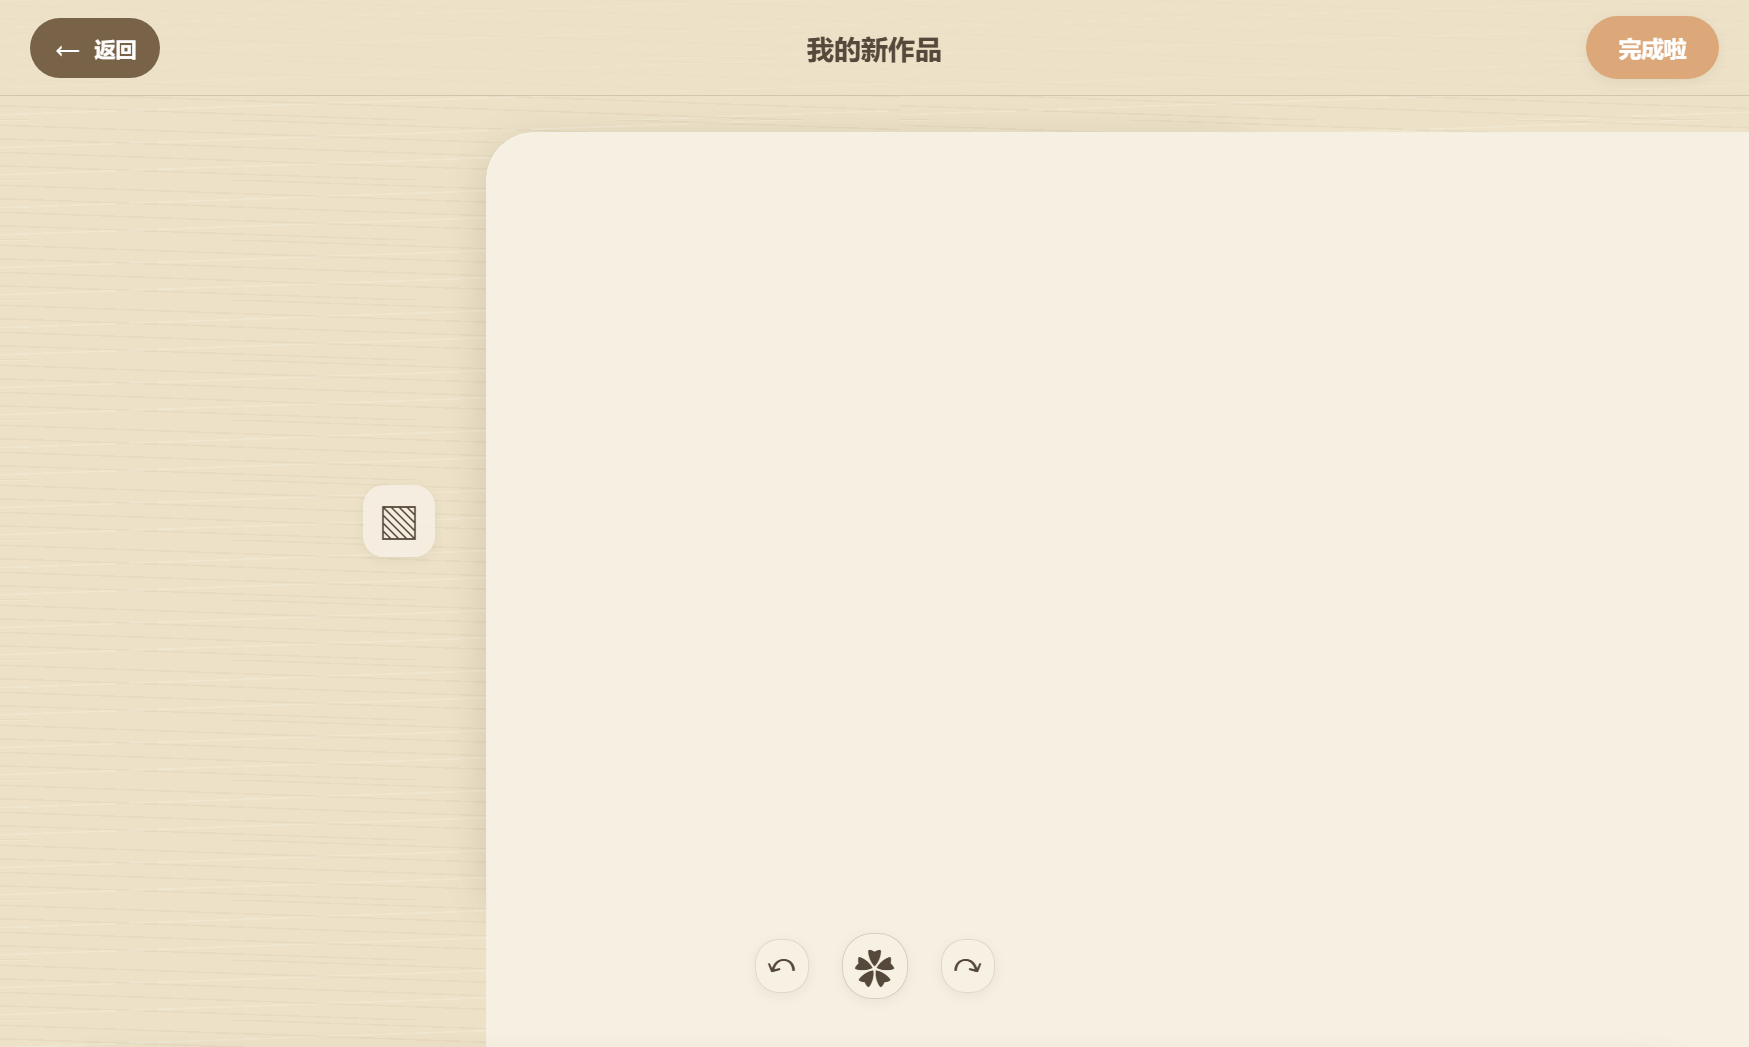
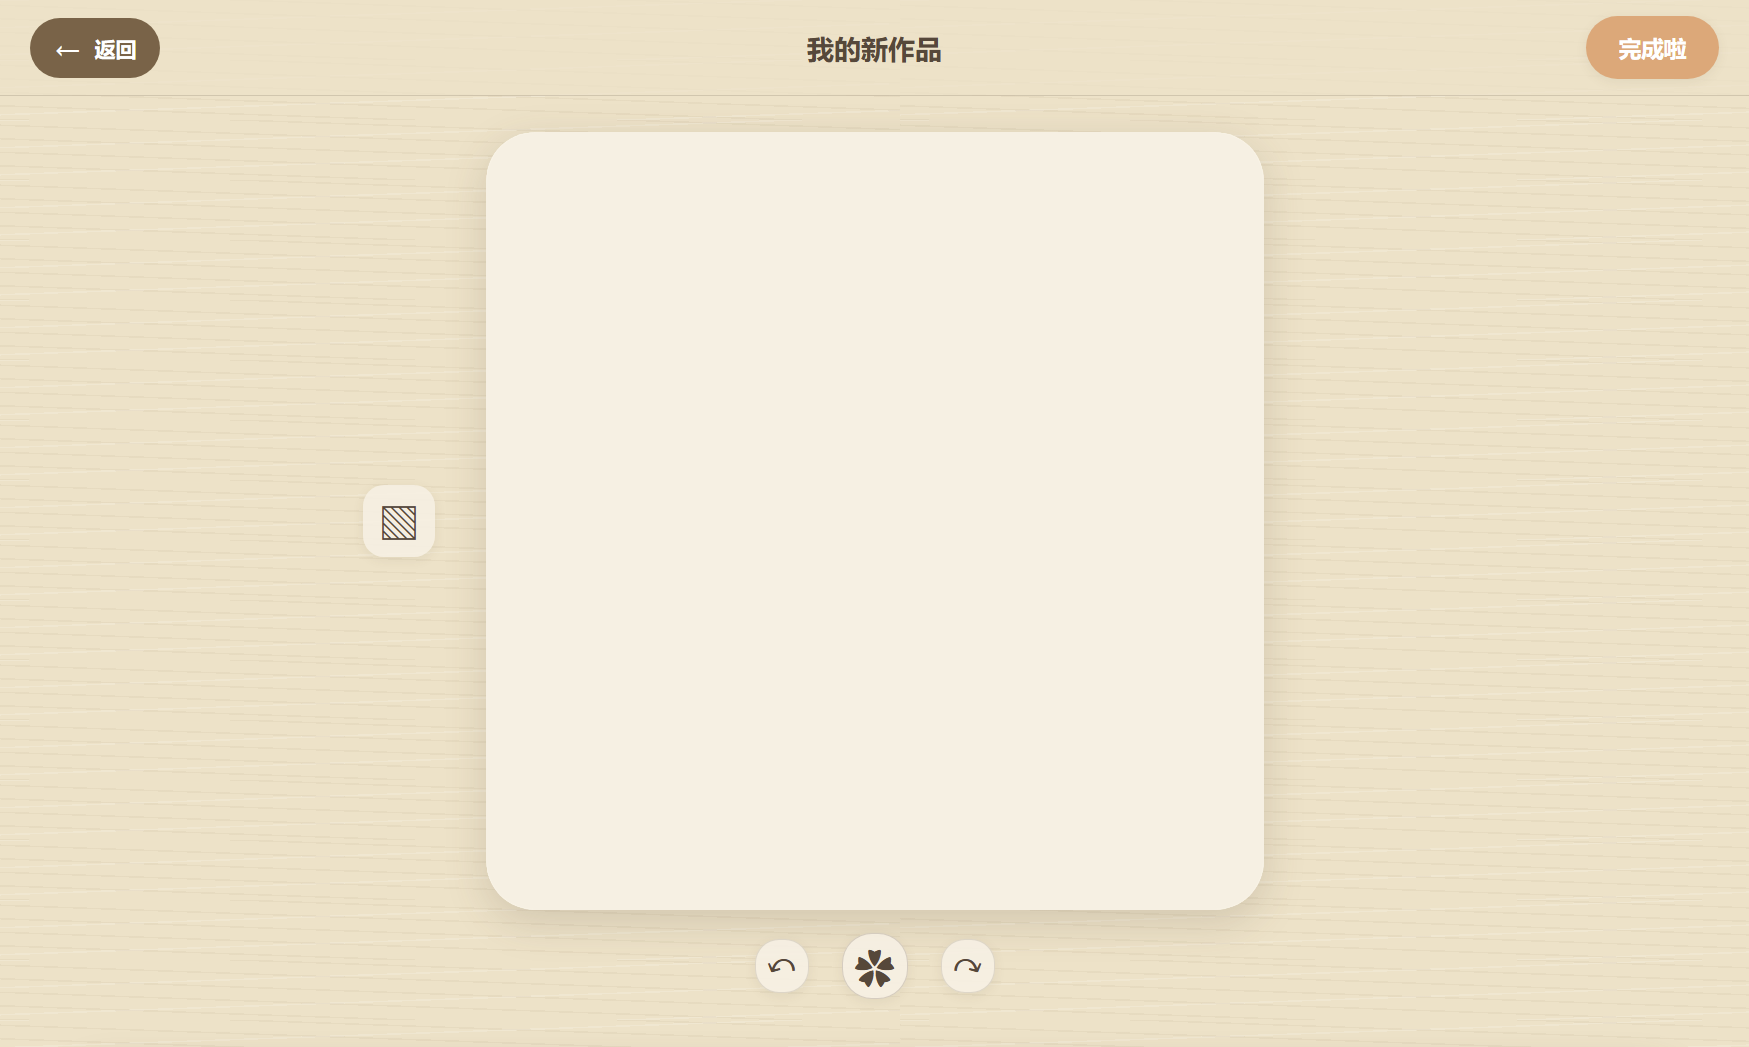
test(editor): record passing OQT geometry evidence

diff --git a/felt-craft-lab-e2e-evidence/v46-oqt-selection/OQT_SELECTION_FOCUSED_ACCEPTANCE.md b/felt-craft-lab-e2e-evidence/v46-oqt-selection/OQT_SELECTION_FOCUSED_ACCEPTANCE.md
@@ -2,29 +2,28 @@
 
 ## Scope
 
-This is a focused production Electron acceptance run for the renderer-only
-selection projection and Object Quick Tools. It is not FULL E2E and does not
-change the UI branch, Shared Contracts, SceneDocument, persistence, resolver,
-or Electron security boundary.
+Focused acceptance of the renderer-only selection projection and Object Quick
+Tools in the built production Electron renderer. This is not FULL E2E. The
+run does not change Shared Contracts, SceneDocument, persistence, resolver,
+catalog/snapshot rules, or Electron security boundaries.
 
 ## Result
 
-`OQT_SELECTION_FOCUSED_WITH_MINOR_ISSUES`
+`OQT_SELECTION_FOCUSED_PASSED`
 
-The core production UI path passed: library → themed new Scene → real mouse
-sticker additions → double-click selection → quick-tool layer actions → remove
-toast → toast undo. Unit coverage for geometry projection and listener cleanup
-also passed. The only minor/test issue is the existing production display
-surface mismatch documented in `oqt-geometry.json`; it prevented a reliable
-focused GUI assertion that OQT follows a real drag, so that assertion remains
-NOT_TESTED rather than being called PASS.
+The real production UI path passed: library → themed new Scene → real mouse
+sticker additions → single-click selection → double-click OQT → layer actions
+→ real drag with OQT open → real corner scale with OQT open → real rotation
+with OQT open → remove toast → toast undo. The final run used only production
+UI mouse input for these actions; no Session/Adapter delete or Fabric-object
+mutation was invoked by the harness.
 
 ## Requested fields
 
-- Verdict: `OQT_SELECTION_FOCUSED_WITH_MINOR_ISSUES`
+- Verdict: `OQT_SELECTION_FOCUSED_PASSED`
 - Branch: `feature/material-library/oqt-selection-projection`
-- Tested source: `f352246ca79ca0f604ba395e0c288b0ea327b2c7` (the committed implementation under test)
-- Production mode: built Electron renderer, no test-only Fabric smoke page
+- Tested source: `27b8f9c99b9642b88b74ae095db54e2539cbafda`
+- Production mode: built Electron renderer; no test-only Fabric smoke page
 - Single click selects a sticker and does not auto-open OQT: PASS
 - Double click opens OQT: PASS
 - OQT labels: `往前`, `往后`, `拿掉`
@@ -33,24 +32,34 @@ NOT_TESTED rather than being called PASS.
 - Remove toast text and undo affordance: PASS
 - Toast undo restores through Session history: PASS
 - OQT closes after removal: PASS
-- Geometry projection event coverage: PASS (unit tests)
-- Real drag with OQT open: NOT_TESTED / TEST_ISSUE (surface mismatch)
-- Real corner scale with OQT open: NOT_TESTED / TEST_ISSUE (surface mismatch)
-- Real rotation with OQT open: NOT_TESTED / TEST_ISSUE (surface mismatch)
+- Real drag with OQT open and projection follows geometry: PASS
+- Real corner scale with OQT open: PASS
+- Real rotation with OQT open: PASS
 - Invalid object projection suppression: PASS (unit tests)
 - Recovery placeholder suppression: PASS (unit tests)
 - Listener unsubscribe: PASS (unit tests)
 - Adapter dispose clears selection listeners: PASS (unit tests)
 - Session subscription boundary before open/disposed: PASS (unit tests)
 - Listener exception isolation: PASS (unit tests)
-- Logical-to-screen mapping implementation: PASS (code review/unit boundary)
+- Retina-safe logical-to-screen mapping: PASS (unit test/real Electron)
 - Selection persistence: not implemented by design
 - SceneDocument schema changes: none
 - Fabric JSON persistence: none
-- Canvas/display surface mismatch: MINOR TEST ISSUE, pre-existing shell geometry
 - Console errors: 0
 - Page errors: 0
-- Main process errors: 0 (only DevTools banner and Canvas2D performance hint)
+- Network errors: 0
+- Main process product errors: 0; only DevTools banner and Canvas2D
+  `willReadFrequently` performance hint were observed
+
+## Geometry correction
+
+Fabric sets the HTML canvas backing dimensions to `1440x1440` at the Electron
+test DPR of 1.5 while the SceneDocument logical canvas remains `960x960` and
+the visible/event CSS surface is `518x518`. OQT projection now uses the stable
+logical SceneDocument dimensions and the CSS `getBoundingClientRect`, so it
+does not multiply by DPR or mistake retina backing size for logical geometry.
+The Fabric container is explicitly constrained to the visible frame, keeping
+real pointer hit testing aligned with the projected controls.
 
 ## Evidence
 
@@ -60,8 +69,6 @@ NOT_TESTED rather than being called PASS.
 - `error-audit.json`
 - `01_single_click_selection.png` through `13_after_resize.png`
 
-All critical actions were dispatched as real mouse input to the production
-Electron window. The harness did not call `session.deleteSelected`,
-`adapter.deleteSelected`, `adapter.deleteObject`, or mutate Fabric objects.
 The only setup operation was seeding explicit unlock rows in the isolated test
-profile so production UI could reach the normal unlocked-material path.
+profile so the normal production unlocked-material path was reachable. The
+profile is disposable and is not a product data change.
